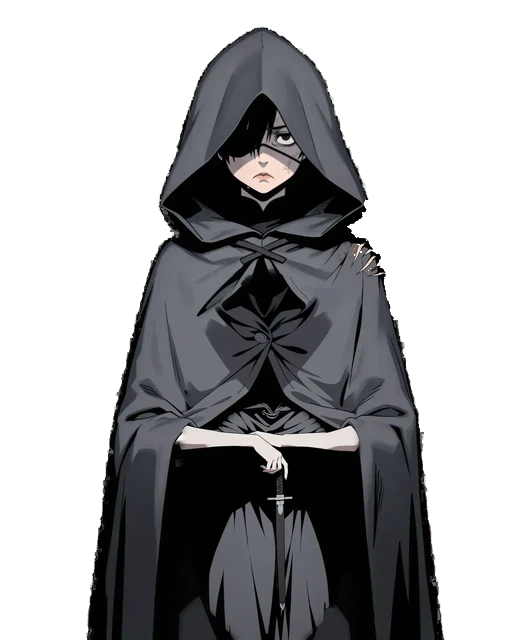
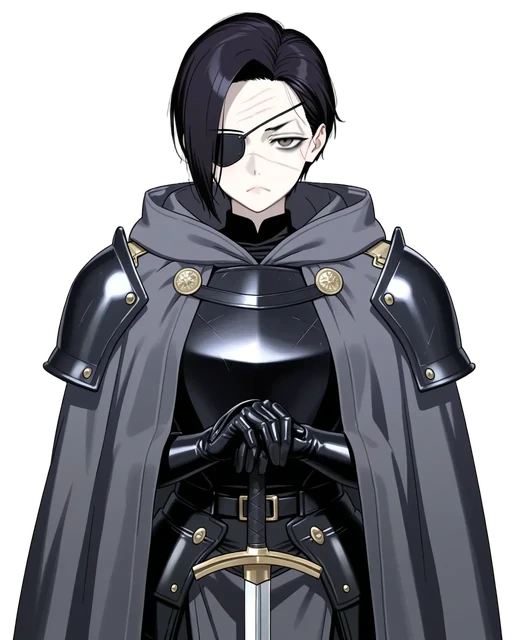
シグルンを描き直した基本の絵と、喜怒哀楽の差分に差し替える（顔の窓の四角も新しい絵に合わせる）
Claude-Session: https://claude.ai/code/session_011Kp4AbAXdzXbnvYnjXXoLh

diff --git a/src/data/changelog.js b/src/data/changelog.js
@@ -9,6 +9,7 @@
       ver: "次の版",
       next: true,
       items: [
+        "シグルンの立ち絵を描き直した（頭巾を下ろし、眼帯と歴戦の傭兵らしい顔が見えるように）。表情違いも作り直した",
         "表情は本文の窓のそばの小さな顔の窓（ADV のような四角い枠）に出し、全身の立ち絵はいつも基本の絵にした（表情違いの絵の体・服の崩れが見えないように）。設定の「画面」で全身の立ち絵も変えられる",
         "基本の絵とほとんど変わらなかった表情違い（45 枚）をやめた。その表情のときは基本の立ち絵が出る",
         "新しい長編「王の仇討ち」：国王ヴァレオンの頼みで、兄君を殺した黒い石の獣を追う。王と並んで正面から割る（使徒を討ったことを王に話すと、王都に使いが来る）",

diff --git a/src/data/u41_face_box.js b/src/data/u41_face_box.js
@@ -96,7 +96,7 @@
     shione: [0.3047, 0.1297, 0.4156, 0.3325],
     sieglinde: [0.3086, 0.2109, 0.3719, 0.2975],
     sig: [0.3, 0, 0.42, 0.336],
-    sigrun: [0.3926, 0.1594, 0.2344, 0.1875],
+    sigrun: [0.377, 0.094, 0.293, 0.234],
     sixth: [0.3105, 0.0688, 0.3594, 0.2875],
     solenne: [0.308, 0.0044, 0.364, 0.2912],
     souhaku: [0.266, 0, 0.448, 0.3584],

diff --git a/docs/art/redesign/cut.py b/docs/art/redesign/cut.py
@@ -1,0 +1,31 @@
+# 透過を抜く：birefnet-general の柔らかいマスク → 白い地を引いて縁の色を戻す → 透明度をかけたまま 512×640 に縮める
+# 使い方：python cut.py src.png out.webp [mask_out.png]
+import sys
+import numpy as np
+from PIL import Image
+from scipy import ndimage
+from rembg import new_session, remove
+S = new_session("birefnet-general")
+src, dst = sys.argv[1], sys.argv[2]
+im = Image.open(src).convert("RGB")
+a = np.array(remove(im, session=S, only_mask=True, post_process_mask=False)).astype(np.float32) / 255
+a[a < 0.04] = 0; a[a > 0.96] = 1
+# 人物から離れた小さな塊（地面の砂・粒）を消す：いちばん大きい塊につながる所だけ
+lab, n = ndimage.label(a > 0.5)
+if n > 1:
+    sz = ndimage.sum(np.ones_like(a), lab, range(1, n + 1)); big = lab == (int(np.argmax(sz)) + 1)
+    near = ndimage.binary_dilation(big, iterations=6); a = np.where(near, a, 0)
+c = np.array(im).astype(np.float32)
+# 縁の色：白い地を引いて戻す（半透明の所）。戻した色が壊れる所は、いちばん近い不透明の色を使う
+fg = (c - (1 - a[..., None]) * 255) / np.maximum(a[..., None], 1e-3)
+solid = a > 0.95; _, (iy, ix) = ndimage.distance_transform_edt(~solid, return_indices=True)
+bad = (a < 0.95) & ((fg < -10).any(-1) | (fg > 265).any(-1) | (a < 0.25))
+fg = np.where(bad[..., None], c[iy, ix], np.clip(fg, 0, 255))
+pm = np.dstack([fg * a[..., None], a * 255])
+small = np.array(Image.fromarray(pm[..., :3].round().astype(np.uint8)).resize((512, 640), Image.LANCZOS)).astype(np.float32)
+sa = np.array(Image.fromarray((a * 255).round().astype(np.uint8)).resize((512, 640), Image.LANCZOS)).astype(np.float32)
+rgb = np.clip(small / np.maximum(sa[..., None] / 255, 1e-3), 0, 255); rgb[sa < 1] = 0
+out = Image.fromarray(np.dstack([rgb, sa]).round().astype(np.uint8), "RGBA")
+out.save(dst, "WEBP", quality=90, alpha_quality=100, method=6)
+if len(sys.argv) > 3: Image.fromarray((a * 255).astype(np.uint8)).save(sys.argv[3])
+print(dst)

diff --git a/docs/art/redesign/sigrun_var.py b/docs/art/redesign/sigrun_var.py
@@ -1,0 +1,21 @@
+# シグルンの差分：基本の絵（白い地・1024×1280）から全身の img2img、seed 同じ・表情のタグだけ差し替え（denoising は style.json の 0.5）
+import base64, io, json, os, sys, urllib.request
+from PIL import Image
+R = "../redesign/"
+base = json.load(open(R + "sigrun_15131.json", encoding="utf-8"))
+src = base64.b64encode(open(R + "sigrun_15131.png", "rb").read()).decode()
+V = {"joy": "faint smile, closed mouth", "anger": "(glaring:1.4), (frown:1.3), (furrowed brows:1.4), (v-shaped eyebrows:1.2), tight lips, closed mouth", "sorrow": "(sad:1.3), (looking down:1.3), (worried eyebrows:1.3), (downturned mouth:1.3), closed mouth", "fun": "(smirk:1.5), (one corner of the mouth raised:1.4), (half-closed eye:1.2), amused, closed mouth"}
+OLD = "expressionless, closed mouth, tired eyes"
+assert OLD in base["prompt"]
+NEGX = ", (blush:1.4), (tears:1.4), (anger vein:1.5), (open mouth:1.2), (teeth:1.3), sweat, comical, chibi"
+den = float(os.environ.get("DEN", 0.5))
+for m in sys.argv[1].split(","):
+    for sd in [int(s) for s in (sys.argv[2].split(",") if len(sys.argv) > 2 else ["15131"])]:
+        b = dict(base); b.pop("override_settings_restore_afterwards", None)
+        b["prompt"] = base["prompt"].replace(OLD, V[m]); b["negative_prompt"] = base["negative_prompt"] + NEGX
+        b.update({"init_images": [src], "denoising_strength": den, "resize_mode": 0, "seed": sd})
+        r = json.loads(urllib.request.urlopen(urllib.request.Request("http://127.0.0.1:7860/sdapi/v1/img2img", json.dumps(b).encode(), {"Content-Type": "application/json"}), timeout=1800).read())
+        Image.open(io.BytesIO(base64.b64decode(r["images"][0]))).convert("RGB").save(f"v_{m}_{sd}_{den}.png")
+        b.pop("init_images"); b["init_image"] = "sigrun_15131.png（基本の絵・白い地）"
+        json.dump(b, open(f"v_{m}_{sd}_{den}.json", "w", encoding="utf-8"), ensure_ascii=False, indent=1)
+        print(m, sd, den, flush=True)

diff --git a/CHANGELOG.md b/CHANGELOG.md
@@ -4,6 +4,7 @@
 
 ## 次の版（未公開）
 
+- シグルンの立ち絵を描き直した（頭巾を下ろし、眼帯と歴戦の傭兵らしい顔が見えるように）。表情違いも作り直した
 - 表情は本文の窓のそばの小さな顔の窓（ADV のような四角い枠）に出し、全身の立ち絵はいつも基本の絵にした（表情違いの絵の体・服の崩れが見えないように）。設定の「画面」で全身の立ち絵も変えられる
 - 基本の絵とほとんど変わらなかった表情違い（45 枚）をやめた。その表情のときは基本の立ち絵が出る
 - 新しい長編「王の仇討ち」：国王ヴァレオンの頼みで、兄君を殺した黒い石の獣を追う。王と並んで正面から割る（使徒を討ったことを王に話すと、王都に使いが来る）
